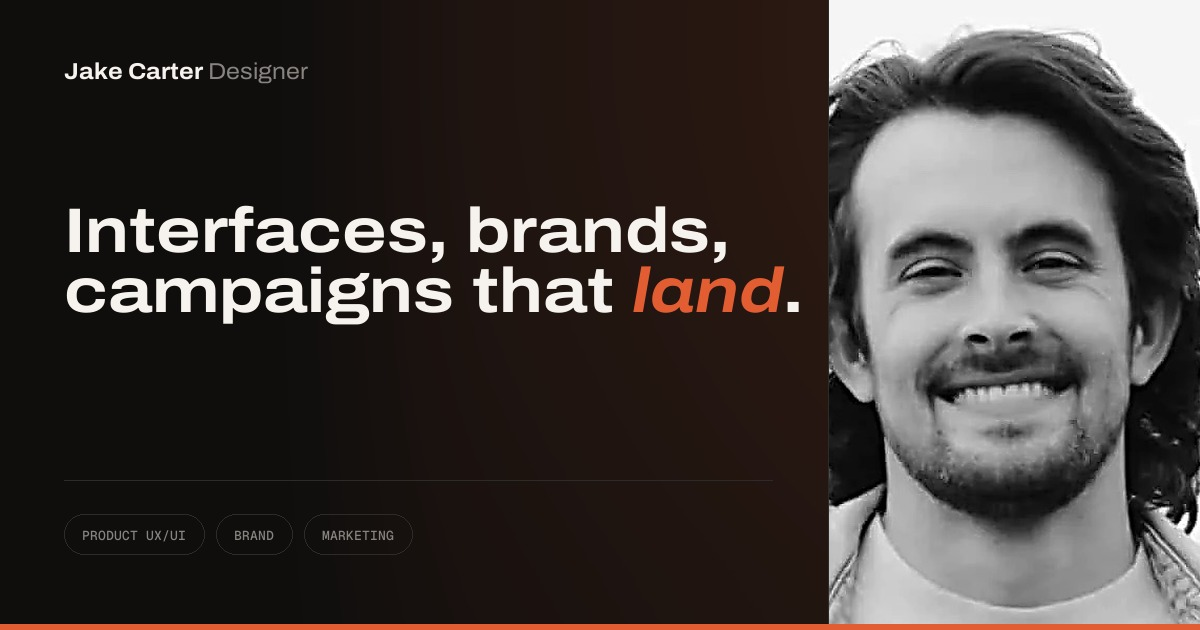
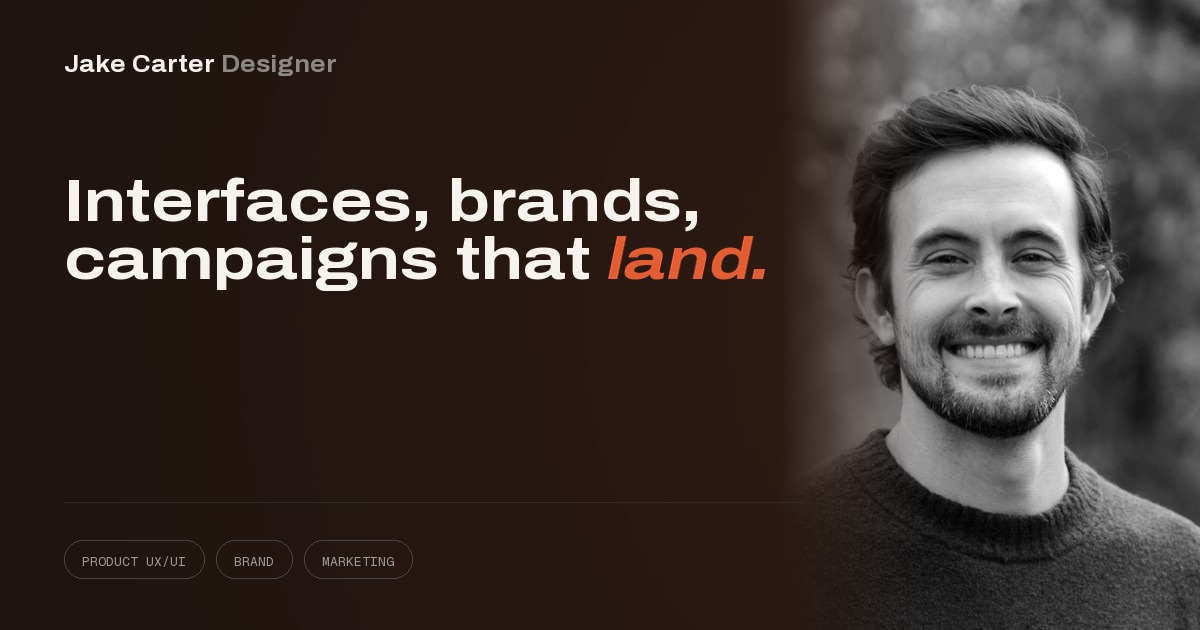
New headshot, black and white, and a rebuilt share card
Replaces the portrait with the new photo, cropped square on head and shoulders
and converted to greyscale with a small contrast lift so the foliage reads as
texture rather than flat grey. Sized 800x800, which is just under 3x the 270px
panel it renders in on both the home and about pages.

The share card is built from the portrait, so it had to be regenerated. The
HTML version wrapped the headline to four lines at 74px, and a pane screenshot
only captures 800x420, so the card is now composited directly at 1200x630 from
the project's own Archivo and Geist Mono, converted out of woff2 and pinned to
the same axis values the site uses. Two fixes on top of that: the glow is wide
enough that its bounding box no longer shows as a vertical seam, and "land."
is sheared to match the synthesized italic the browser renders on the site.

Also clears three stale TODO comments that asked for a portrait and for social
URLs which are all now in place.

diff --git a/index.html b/index.html
@@ -75,8 +75,6 @@
         </div>
 
         <figure class="hero__figure reveal" style="--d:620ms;margin:0">
-          <!-- TODO Jake: drop a portrait at assets/img/portrait.jpg, 1000x1250 or larger.
-               If the file is absent the designed panel below shows instead. -->
           <div class="media" style="--ratio:100%">
             <div class="media__slot"><span class="mark">JC</span></div>
             <img src="assets/img/portrait.jpg" alt="Jake Carter" loading="eager">
@@ -507,7 +505,6 @@
         <p class="foot__note">UX/UI, graphic design and marketing. Lehi, Utah.</p>
       </div>
       <nav class="foot__right" aria-label="Footer">
-        <!-- TODO Jake: send me your LinkedIn, Behance/Dribbble and Medium URLs and I will add them here. -->
         <a href="mailto:jakeacarter20@gmail.com">Email</a>
         <a href="https://jakeacarter20.medium.com" target="_blank" rel="noopener">Medium</a>
         <a href="https://www.linkedin.com/in/jake-carter-57657b15a/" target="_blank" rel="noopener">LinkedIn</a>

diff --git a/about.html b/about.html
@@ -56,7 +56,6 @@
           </p>
         </div>
         <figure style="grid-column:10 / 13;margin:0" class="reveal">
-          <!-- TODO Jake: assets/img/portrait.jpg, 1000x1250 or larger. -->
           <div class="media" style="--ratio:100%">
             <div class="media__slot"><span class="mark">JC</span></div>
             <img src="assets/img/portrait.jpg" alt="Jake Carter" loading="eager">
